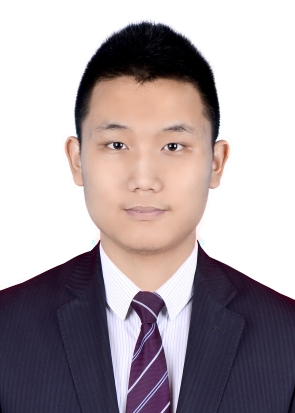
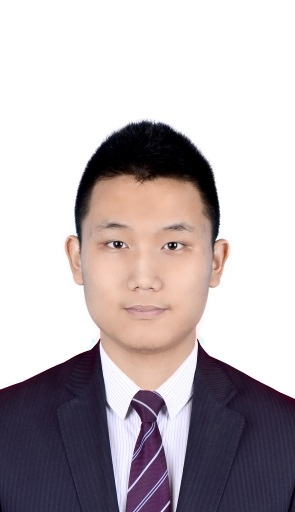
head in middle

diff --git a/index.html b/index.html
@@ -842,7 +842,7 @@
 				<h2 style="text-align: center;">Workshop Organizers</h2>
 				<div class="organizer-list">
 					<div class="organizer">
-						<img src="images/organizer-placeholder.png" alt="Prof. Dr. Xian Wei" class="circle-img">
+						<img src="images/weixian.jpg" alt="Prof. Dr. Xian Wei" class="circle-img">
 						<p><strong>Prof. Dr. Xian Wei</strong></p>
 						<p>East China Normal University, China</p>
 						<p>Email: <a href="mailto:xwei@sei.ecnu.edu.cn">xwei@sei.ecnu.edu.cn</a></p>
@@ -852,14 +852,14 @@
 						<p></p>
 					</div>
 					<div class="organizer">
-						<img src="images/organizer-placeholder.png" alt="Dr. Jian Yang" class="circle-img">
+						<img src="images/yangjian.jpg" alt="Dr. Jian Yang" class="circle-img">
 						<p><strong>Dr. Jian Yang</strong></p>
 						<p>Information Engineering University, China</p>
 						<p>Email: <a href="mailto:jian.yang@tum.de">jian.yang@tum.de</a></p>
 						<p></p>
 					</div>
 					<div class="organizer">
-						<img src="images/organizer-placeholder.png" alt="Dr. Jinpeng Mi" class="circle-img">
+						<img src="images/mijinpeng.jpg" alt="Dr. Jinpeng Mi" class="circle-img">
 						<p><strong>Dr. Jinpeng Mi</strong></p>
 						<p>University of Shanghai for Science and Technology, China</p>
 						<p>Email: <a href="mailto:jp.mi@usst.edu.cn">jp.mi@usst.edu.cn</a></p>
@@ -956,23 +956,6 @@
 				/* Adjust as needed */
 			}
 		</style>
-
-		<!-- Contact
-		<section id="contact" class="wrapper style5 fade-up">
-			<div class="inner">
-				<h2 style="text-align: center;">Contact</h2>
-				<br>
-				<div style="text-align: center; width: 100%;">
-					<p style="text-align: center; white-space: normal;">If you have any questions about the workshop,
-						please contact the organizers:
-						<br>
-						Prof. Dr. Xian Wei: <a href="mailto:xwei@sei.ecnu.edu.cn">xwei@sei.ecnu.edu.cn</a>
-						<br>
-						Dr. Jian Yang: <a href="mailto:jian.yang@tum.de">jian.yang@tum.de</a>
-					</p>
-				</div>
-			</div>
-		</section> -->
 
 	</div>
 
